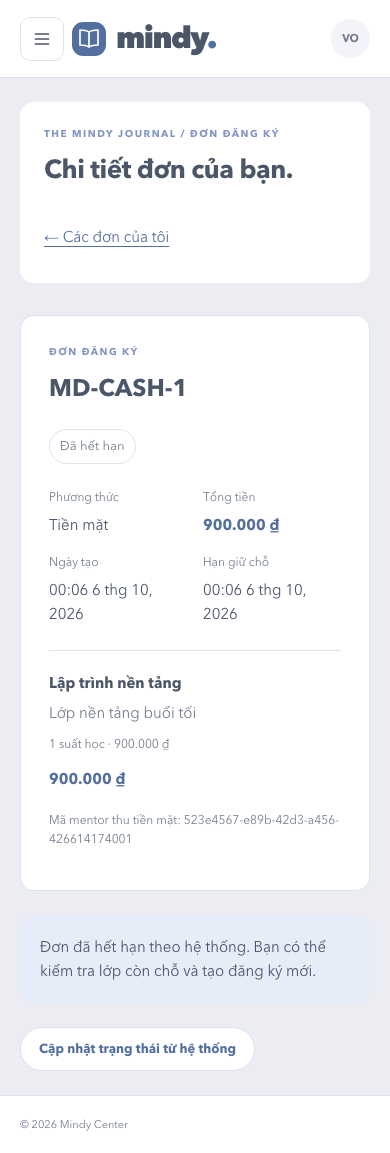
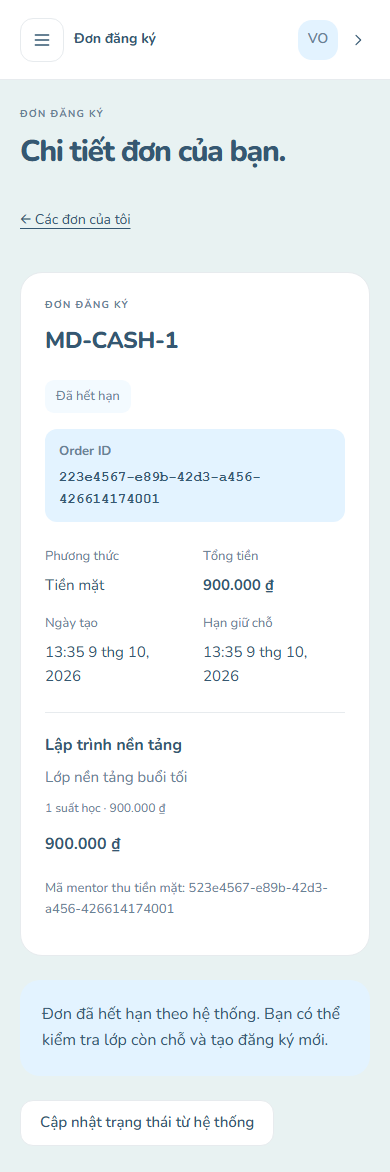
verify payment provider codes and safe return paths

diff --git a/tests/e2e/checkout-orders.spec.ts b/tests/e2e/checkout-orders.spec.ts
@@ -5,6 +5,8 @@ import type { Order, PaymentType } from '../../src/features/orders/schemas/order
 const classIds = ['123e4567-e89b-42d3-a456-426614174001', '123e4567-e89b-42d3-a456-426614174002'];
 const orderIds = ['223e4567-e89b-42d3-a456-426614174001', '223e4567-e89b-42d3-a456-426614174002'];
 const foreignId = '223e4567-e89b-42d3-a456-426614174099';
+const payosQr =
[1 lines of base64/hex data omitted]
 const user = {
   id: '323e4567-e89b-42d3-a456-426614174001',
   email: 'student@example.com',
@@ -83,10 +85,20 @@ async function mockCommerce(
   let signedIn = true;
   let orders = options.orders ?? [];
   let cart = { items: [...cartItems], totalAmount: 2_000_000 };
+  let payment: {
+    paymentId: string;
+    orderId: string;
+    providerOrderCode: number;
+    status: 'PENDING';
+    checkoutUrl: string;
+    qrCode: string;
+    expiresAt: string;
+    amount: number;
+  } | null = null;
   let mode = options.mode ?? 'success';
   let recoveryReadsFail = false;
   let release: () => void = () => undefined;
-  const counts = { checkout: 0, cart: 0, orders: 0, detail: 0, admin: 0 };
+  const counts = { checkout: 0, cart: 0, orders: 0, detail: 0, payment: 0, admin: 0 };
   await page.route('**/api/v1/**', async (route) => {
     const request = route.request();
     const url = new URL(request.url());
@@ -122,6 +134,7 @@ async function mockCommerce(
         });
       if (mode === 'success' || mode === 'unknown-committed') {
         orders = makeOrders(payload.paymentType);
+        payment = null;
         cart = { items: [], totalAmount: 0 };
       }
       if (mode === 'unknown-read-fails') recoveryReadsFail = true;
@@ -152,6 +165,21 @@ async function mockCommerce(
         },
       });
     }
+    if (path.endsWith('/payments/payos')) {
+      counts.payment += 1;
+      const orderId = path.split('/').at(-3) ?? '';
+      payment = {
+        paymentId: '623e4567-e89b-42d3-a456-426614174001',
+        orderId,
+        providerOrderCode: 123456,
+        status: 'PENDING',
+        checkoutUrl: 'https://pay.payos.vn/web/checkout-auto',
+        qrCode: payosQr,
+        expiresAt: new Date(Date.now() + 30 * 60_000).toISOString(),
+        amount: 2_000_000,
+      };
+      return route.fulfill({ status: 201, json: payment });
+    }
     if (path.includes('/me/orders/')) {
       counts.detail += 1;
       const id = path.split('/').at(-1);
@@ -162,7 +190,7 @@ async function mockCommerce(
         });
       const order = orders.find((item) => item.id === id);
       return order
-        ? route.fulfill({ json: { ...order, payment: null } })
+        ? route.fulfill({ json: { ...order, payment } })
         : route.fulfill({ status: 404, json: { code: 'ORDER_NOT_FOUND', message: 'Not found' } });
     }
     return route.fulfill({ status: 404, json: { code: 'NOT_FOUND', message: 'Not found' } });
@@ -240,20 +268,19 @@ test('CASH checkout blocks duplicate submission and displays every split order w
   expect(mock.counts.admin).toBe(0);
 });
 
-test('PayOS returns one pending order for all classes and no invented payment link', async ({
-  page,
-}) => {
+test('PayOS checkout opens its order and renders QR without a detail click', async ({ page }) => {
   const mock = await mockCommerce(page);
   await page.goto('/checkout');
   await page.getByRole('radio', { name: /PayOS/ }).check();
-  await page.getByRole('button', { name: 'Tạo đơn giữ chỗ', exact: true }).click();
-  await expect(page.getByRole('article', { name: 'Đơn MD-PAYOS-ALL', exact: true })).toBeVisible();
-  await expect(page.getByRole('article')).toHaveCount(1);
-  await expect(page.getByRole('article')).toContainText('Lớp nền tảng buổi tối');
-  await expect(page.getByRole('article')).toContainText('Lớp thực hành cuối tuần');
-  await expect(page.getByRole('article')).toContainText('Chờ thanh toán');
-  await expect(page.getByRole('link', { name: /Thanh toán ngay|Mở PayOS|Hủy đơn/ })).toHaveCount(0);
+  await page.getByRole('button', { name: 'Tạo đơn và mở mã QR', exact: true }).click();
+  await expect(page).toHaveURL(new RegExp(`/orders/${orderIds[0]}$`));
+  await expect(page.getByRole('img', { name: 'QR thanh toán PayOS' })).toBeVisible();
+  await expect(page.getByRole('link', { name: 'Mở PayOS để thanh toán' })).toHaveAttribute(
+    'href',
+    'https://pay.payos.vn/web/checkout-auto',
+  );
   expect(mock.counts.checkout).toBe(1);
+  expect(mock.counts.payment).toBe(1);
 });
 
 test('lost checkout response reconciles own orders and cart, displaying all committed orders without retry', async ({

diff --git a/src/features/orders/components/checkout-page.tsx b/src/features/orders/components/checkout-page.tsx
@@ -1,6 +1,7 @@
 'use client';
 
 import Link from 'next/link';
+import { useRouter } from 'next/navigation';
 import { useEffect, useRef, useState } from 'react';
 import { announceCartChanged, getCart } from '@/features/cart/client';
 import { ErrorPanel, LoadingState } from '@/shared/components/feedback';
@@ -17,9 +18,11 @@ export function CheckoutPage() {
 }
 
 function CheckoutContent() {
+  const router = useRouter();
   const [state, setState] = useState<CheckoutState>(initialCheckoutState);
   const [paymentType, setPaymentType] = useState<PaymentType>('CASH');
   const flow = useRef<CheckoutFlow | null>(null);
+  const openedPayosOrder = useRef<string | undefined>(undefined);
   useEffect(() => {
     const active = new CheckoutFlow(
       { getCart, recentOrders: (signal) => listOrders('page=1&pageSize=100', signal), checkout },
@@ -35,6 +38,13 @@ function CheckoutContent() {
   useEffect(() => {
     if (state.phase === 'recovered') announceCartChanged();
   }, [state.phase]);
+  useEffect(() => {
+    if (!['success', 'recovered'].includes(state.phase)) return;
+    const payosOrder = state.orders.find((order) => order.paymentType === 'PAYOS');
+    if (!payosOrder || openedPayosOrder.current === payosOrder.id) return;
+    openedPayosOrder.current = payosOrder.id;
+    router.replace(`/orders/${payosOrder.id}`);
+  }, [router, state.orders, state.phase]);
 
   const result = state.phase === 'success' || state.phase === 'recovered';
   const uncertain = ['checking', 'unknown', 'retryable'].includes(state.phase);
@@ -53,8 +63,8 @@ function CheckoutContent() {
         </Link>
       </header>
       <p className={styles.notice}>
-        Đây là bước tạo đơn và giữ chỗ, chưa hoàn tất thanh toán. Với PayOS, bạn tạo link hoặc quét
-        QR tại trang chi tiết đơn; tiền mặt chờ mentor xác nhận đã nhận đủ. Quyền học chỉ được cấp
+        Đây là bước tạo đơn và giữ chỗ, chưa hoàn tất thanh toán. Với PayOS, mã QR sẽ được mở tự
+        động ngay sau khi tạo đơn; tiền mặt chờ mentor xác nhận đã nhận đủ. Quyền học chỉ được cấp
         theo trạng thái từ hệ thống.
       </p>
       {state.phase === 'loading' ? (
@@ -201,7 +211,7 @@ function CheckoutContent() {
                       />
                       <span>
                         <strong>PayOS</strong>
-                        <small>Một đơn cho toàn bộ giỏ. Tạo link PayOS ở chi tiết đơn.</small>
+                        <small>Một đơn cho toàn bộ giỏ. Mã QR sẽ hiện tự động.</small>
                       </span>
                     </label>
                   </fieldset>
@@ -214,7 +224,9 @@ function CheckoutContent() {
                       ? 'Đang tạo đơn…'
                       : state.phase === 'retryable'
                         ? 'Tạo đơn lại sau khi kiểm tra'
-                        : 'Tạo đơn giữ chỗ'}
+                        : paymentType === 'PAYOS'
+                          ? 'Tạo đơn và mở mã QR'
+                          : 'Tạo đơn giữ chỗ'}
                   </button>
                 </form>
               </aside>

diff --git a/src/features/auth/api/google-policy.spec.ts b/src/features/auth/api/google-policy.spec.ts
@@ -1,7 +1,36 @@
 import { describe, expect, it } from 'vitest';
-import { googleResponseCookies, googleStateCookie, trustedGoogleRedirect } from './google-policy';
+import {
+  googleResponseCookies,
+  googleStateCookie,
+  trustedGoogleRedirect,
+  trustedGoogleReturnPath,
+} from './google-policy';
 
 describe('OAuth cookie and redirect policy', () => {
+  it('preserves learning, payment and mentor callback paths with query and hash on the app origin', () => {
+    const origin = 'https://mindy.example';
+    const id = '123e4567-e89b-42d3-a456-426614174000';
+    for (const path of [
+      `/learning/classes/${id}?unitId=${id}#timetable`,
+      `/learning/classes/${id}/preview?unitId=${id}`,
+      '/management/payments/reconciliation?page=2',
+      '/payment/result?orderCode=123456&cancel=true',
+      `/mentor/cash-orders?classId=${id}&studentPage=2`,
+    ]) {
+      expect(trustedGoogleRedirect(`${origin}${path}`, 'callback', origin)).toBe(
+        `${origin}${path}`,
+      );
+      expect(trustedGoogleReturnPath(path, origin)).toBe(path);
+      expect(trustedGoogleRedirect(`https://evil.example${path}`, 'callback', origin)).toBeNull();
+    }
+    for (const path of [
+      '//evil.example/payment/result',
+      '/payment/result/extra',
+      `/learning/classes/${id}/preview/extra`,
+      '/mentor/cash-orders%0d%0aLocation:https://evil.example',
+    ])
+      expect(trustedGoogleReturnPath(path, origin)).toBeNull();
+  });
   it('rejects unscoped, non-HttpOnly and foreign-domain cookies', () => {
     expect(
       googleResponseCookies(

diff --git a/tests/e2e/identity.spec.ts b/tests/e2e/identity.spec.ts
@@ -59,6 +59,28 @@ async function mockIdentity(page: Page, role = 'ADMIN') {
   });
 }
 
+const returnClassId = '123e4567-e89b-42d3-a456-426614174000';
+for (const { role, next } of [
+  { role: 'STUDENT', next: `/learning/classes/${returnClassId}?unitId=${returnClassId}#timetable` },
+  { role: 'STUDENT', next: `/learning/classes/${returnClassId}/preview?unitId=${returnClassId}` },
+  { role: 'STUDENT', next: '/payment/result?orderCode=123456&cancel=true' },
+  { role: 'MENTOR', next: `/mentor/cash-orders?classId=${returnClassId}&studentPage=2` },
+  { role: 'ADMIN', next: '/management/payments/reconciliation?page=2' },
+]) {
+  test(`safe return: login and Google link preserve ${next}`, async ({ page }) => {
+    await mockIdentity(page, role);
+    await page.goto(`/login?${new URLSearchParams({ next })}`);
+    await expect(page.getByRole('link', { name: 'Tiếp tục với Google' })).toHaveAttribute(
+      'href',
+      `/api/v1/auth/google?${new URLSearchParams({ returnTo: next })}`,
+    );
+    await page.getByLabel('Email', { exact: true }).fill('student@example.com');
+    await page.getByLabel('Mật khẩu', { exact: true }).fill('correct-password');
+    await page.getByRole('button', { name: 'Đăng nhập', exact: true }).click();
+    await expect(page).toHaveURL(`http://localhost:3101${next}`);
+  });
+}
+
 test('login, filter, create, suspend and logout through the UI', async ({ page }) => {
   await mockIdentity(page);
   await page.goto('/login');

diff --git a/src/features/auth/api/google.server.spec.ts b/src/features/auth/api/google.server.spec.ts
@@ -39,6 +39,32 @@ afterEach(() => {
 });
 
 describe('Google navigation adapter', () => {
+  it('forwards supported payment, mentor and learning return paths unchanged to Google start', async () => {
+    const fetch = vi
+      .fn()
+      .mockImplementation(async () =>
+        redirect('https://accounts.google.com/o/oauth2/v2/auth?state=opaque', [stateCookie]),
+      );
+    vi.stubGlobal('fetch', fetch);
+    const id = '123e4567-e89b-42d3-a456-426614174000';
+    for (const returnTo of [
+      `/learning/classes/${id}?unitId=${id}#timetable`,
+      `/learning/classes/${id}/preview?unitId=${id}`,
+      '/payment/result?orderCode=123456&cancel=true',
+      `/mentor/cash-orders?classId=${id}&studentPage=2`,
+      '/management/payments/reconciliation?page=2',
+    ]) {
+      const response = await googleNavigation(
+        navigation(`?${new URLSearchParams({ returnTo })}`),
+        'start',
+      );
+      expect(response.status).toBe(302);
+      expect(fetch).toHaveBeenLastCalledWith(
+        `http://localhost:3000/api/v1/auth/google?${new URLSearchParams({ returnTo })}`,
+        expect.objectContaining({ redirect: 'manual' }),
+      );
+    }
+  });
   it('starts Google with a safe local return path and a scoped HttpOnly state cookie', async () => {
     const fetch = vi
       .fn()

diff --git a/src/features/auth/permissions/access-policy.spec.ts b/src/features/auth/permissions/access-policy.spec.ts
@@ -22,8 +22,10 @@ describe('navigation policy', () => {
       `/orders/${id}`,
       '/payment/result?orderCode=123456&cancel=true',
       '/mentor/cash-orders?page=2',
+      `/mentor/cash-orders?classId=${id}&studentPage=2&orderStatus=PENDING`,
       `/learning/classes/${id}?unitId=${id}`,
       `/learning/classes/${id}/preview`,
+      `/learning/classes/${id}/preview?unitId=${id}#timetable`,
       '/management/payments/reconciliation?page=2',
     ])
       expect(safeReturnTo(path, '/account')).toBe(path);
@@ -49,5 +51,14 @@ describe('navigation policy', () => {
     expect(safeReturnTo('/account/../../api/v1/auth/google', '/account')).toBe('/account');
     expect(safeReturnTo('/management/classes/new', '/account')).toBe('/management/classes/new');
     expect(safeReturnTo('/management/users?page=2', '/account')).toBe('/management/users?page=2');
+    for (const path of [
+      'https://evil.example/payment/result?orderCode=123456',
+      '//evil.example/mentor/cash-orders',
+      '/%2f%2fevil.example',
+      '/payment/result?orderCode=123456%0d%0aLocation:https://evil.example',
+      '/learning/classes/not-a-uuid',
+      '/management/payments/reconciliation/extra',
+    ])
+      expect(safeReturnTo(path, '/account')).toBe('/account');
   });
 });

diff --git a/src/features/payments/api/payments.browser.spec.ts b/src/features/payments/api/payments.browser.spec.ts
@@ -40,6 +40,23 @@ it('accepts nullable links/QR during creation and all real statuses', () => {
   ])
     expect(paymentSchema.safeParse({ ...payment, checkoutUrl }).success).toBe(false);
 });
+it('preserves the numeric PayOS code and required null CASH code without confusing order UUIDs', () => {
+  expect(paymentSchema.parse(payment).providerOrderCode).toBe(123456);
+  expect(
+    paymentSchema.parse({
+      ...payment,
+      status: 'SUCCEEDED',
+      providerOrderCode: null,
+      checkoutUrl: null,
+      qrCode: null,
+    }).providerOrderCode,
+  ).toBeNull();
+  const { providerOrderCode: _code, ...withoutCode } = payment;
+  expect(paymentSchema.safeParse(withoutCode).success).toBe(false);
+  for (const providerOrderCode of ['123456', id, 0, -1, 1.5, Number.MAX_SAFE_INTEGER + 1])
+    expect(paymentSchema.safeParse({ ...payment, providerOrderCode }).success).toBe(false);
+  expect(paymentSchema.safeParse({ ...payment, orderId: 123456 }).success).toBe(false);
+});
 it('rejects another order payment or malformed success without replay', async () => {
   vi.mocked(authenticatedRequest).mockResolvedValue({
     ...payment,

diff --git a/src/features/orders/api/orders.browser.spec.ts b/src/features/orders/api/orders.browser.spec.ts
@@ -117,6 +117,28 @@ it('maps numeric provider codes, rejects invalid code and mismatched payment wit
   });
   await expect(resolvePaymentResult('123456')).rejects.toMatchObject({ code: 'INVALID_RESPONSE' });
 });
+it('keeps a settled CASH payment provider code null when reading the own order', async () => {
+  const order = ordersFixture[0];
+  if (!order) throw new Error('Missing fixture');
+  const detail = {
+    ...order,
+    paymentType: 'CASH',
+    status: 'PAID',
+    paidAt: order.createdAt,
+    payment: {
+      paymentId: order.id,
+      orderId: order.id,
+      providerOrderCode: null,
+      status: 'SUCCEEDED',
+      checkoutUrl: null,
+      qrCode: null,
+      amount: order.totalAmount,
+      expiresAt: order.expiresAt,
+    },
+  };
+  vi.mocked(authenticatedRequest).mockResolvedValue(detail);
+  expect(await getOrder(order.id)).toEqual(detail);
+});
 it('mentor list uses pagination and confirmation sends only the received integer amount', async () => {
   const order = ordersFixture[0];
   if (!order) throw new Error('Missing fixture');

diff --git a/docs/progress.md b/docs/progress.md
@@ -8,6 +8,8 @@ hướng dẫn ba bước và CTA thống nhất. Desktop dùng bố cục QR/th
 xếp tuần tự, CTA toàn chiều rộng và không tràn ngang. Giữ nguyên create/reuse, polling,
 recovery, stale-data guard và checkoutUrl fallback. Khi mở own PayOS order còn hạn mà
 chưa có payment, FE tự gọi create/reuse đúng một lần; lỗi dừng tự động và giữ nút retry.
+Sau checkout PayOS thành công hoặc recovery tìm lại đúng PayOS order, FE chuyển thẳng
+tới order đó để QR tự hiện; người dùng không cần bấm “Xem chi tiết đơn”.
 Unit tests, type-check, boundaries,
 production build và hai browser tests PayOS/QR pass; ảnh desktop/mobile đã cập nhật.
 
@@ -82,6 +84,19 @@ Materials, attendance, assignments, chat, notifications và dashboard là các p
 Phase 2 chưa đóng toàn bộ vì các dependency và nghiệm thu live trên vẫn còn mở.
 
 [Chi tiết triển khai và cách kiểm thử](./implement_phase/PHASE_2_2_FRONTEND_INTEGRATION.md).
+
+## 2026-10-12 — Xác minh FE-P22-09 và FE-P22-10
+
+- FE-P22-09 hoàn tất: `paymentSchema` giữ field bắt buộc
+  `providerOrderCode: number | null`. PayOS dùng mã số nguyên dương an toàn; payment
+  CASH đã thanh toán giữ `null`. `orderId` vẫn là UUID. Bổ sung regression cho
+  parsed result, thiếu field, numeric string, UUID và mã số không hợp lệ.
+- FE-P22-10 hoàn tất: `safeReturnTo` hỗ trợ lớp đầy đủ, CASH preview, payment result,
+  mentor CASH và ADMIN reconciliation. Password login, Google start/callback đều
+  dùng policy hiện hành; query/hash hợp lệ được giữ và redirect ra ngoài bị chặn.
+- Runtime đã có sẵn; lượt này bổ sung test kiểm chứng và tài liệu. 33 unit tests
+  liên quan, 5 Chromium E2E return paths, type-check, boundaries và production
+  build pass. E2E dùng API mô phỏng; chưa nghiệm thu OAuth Google thật.
 
 ## 2026-10-09 — Thu tiền mặt theo lớp và học viên
 

diff --git a/docs/api-contracts.md b/docs/api-contracts.md
@@ -16,6 +16,14 @@ xác nhận PAID; result mapping đọc quyền owner rồi mở internal order.
 Không proxy readiness và webhook provider. Danh sách/progress lớp phía học viên
 vẫn là phạm vi khác; roster mentor không được dùng để suy ra quyền học.
 
+Xác minh FE-P22-09/10 ngày 12/10/2026: parsed Payment giữ nguyên
+`providerOrderCode` là mã số của provider hoặc `null` cho CASH, tách biệt với
+`orderId` UUID và `Order.orderCode` dạng `MD...`. Field bắt buộc phải có trong
+response, không ép chuỗi sang số. Safe return paths dùng chung cho password login
+và Google: `/learning/classes/:id`, `/learning/classes/:id/preview`,
+`/payment/result`, `/mentor/cash-orders`, `/management/payments/reconciliation`;
+giữ query/hash và chặn URL khác origin hoặc path ngoài allowlist.
+
 ## Snapshot tích hợp cũ (giữ để truy vết)
 
 > Snapshot integration FE tại `5c9e581`. Audit 06/10/2026 xác minh BE hiện tại

diff --git a/docs/architecture.md b/docs/architecture.md
@@ -179,7 +179,9 @@ Private routes: `/learning/classes/[classId]` and
 abort reads/mutations on unmount. No private browser storage. Order detail serializes
 reads, polls pending every 5 seconds while visible and revalidates on visibility
 return. A failed creation requires read recovery before deliberate retry on the same
-order. Checkout still only creates the order; PayOS link creation is a separate action.
+order. Checkout vẫn chỉ tạo order; khi tạo PayOS order thành công, FE tự mở own-order
+route và PaymentPanel gọi create/reuse payment riêng để hiện QR, không yêu cầu người
+dùng bấm thêm bước “chi tiết”.
 
 Learning includes timetable/units/private meeting URLs; it has no inferred progress.
 Reconciliation shows review events rather than all payments and cannot manually grant
